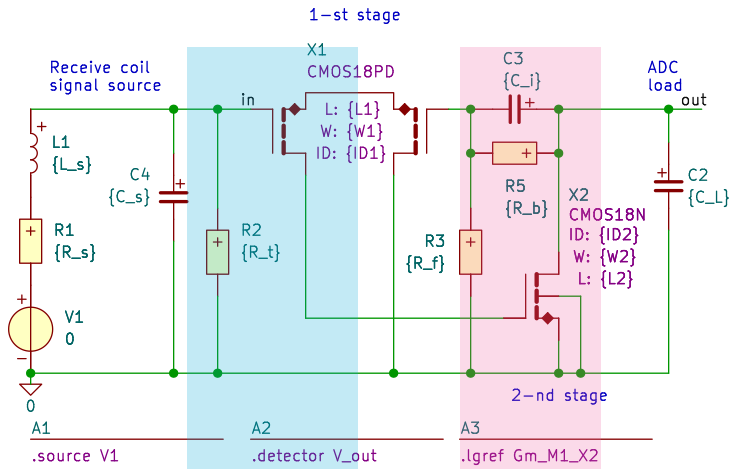
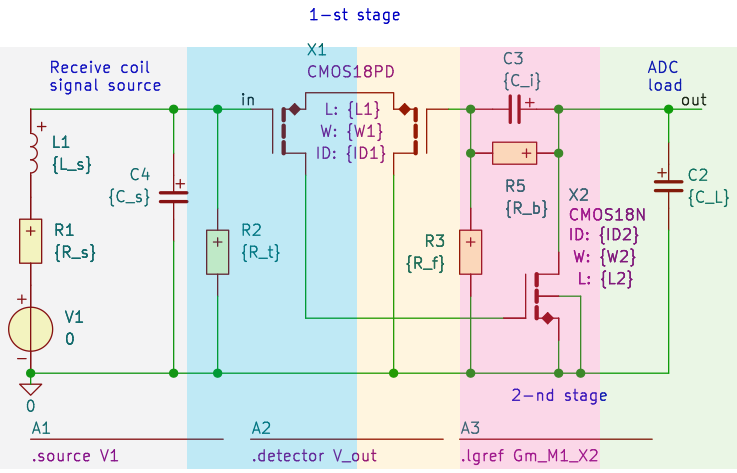
Enhance A1 Receive-Coil Amplifier review materials: - Add slide reference file for detailed circuit descriptions. - Update speaker notes for clarity and improved explanations. - Revise presentation files with better formatting and color coding for components. - Introduce new plots in Python scripts 

Changed region(s): [[0.8114, 0.0888, 1.0, 1.0], [0.4681, 0.0888, 0.6242, 1.0]]

diff --git a/SED_Exam_Review_Daniel_Tyukov/presentation/main.tex b/SED_Exam_Review_Daniel_Tyukov/presentation/main.tex
@@ -565,9 +565,11 @@
 
 \begin{frame}{Single stage: the circuit}
   \centering
-  \includegraphics[width=0.82\linewidth]{singleStageSimple_colored}\\[0.2em]
-  {\footnotesize\cbox{tudcyan}~single amplifier stage ($-g_m$)}\quad
-  \src{behavioural model: coil $\to$ termination $\to$ one CS controller $\to$ feedback $\to$ load}
+  \includegraphics[width=0.82\linewidth]{singleStageSimple_colored}\\[0.25em]
+  {\footnotesize
+   \cbox{tudcyan}~coil source \ \ \cbox{tudorange}~termination \ \
+   \cbox{tudgreen}~amplifier ($-g_m$) \ \ \cbox{tudyellow}~feedback \ \ \cbox{tudpink}~ADC load}\\[0.2em]
+  \src{behavioural model: one common-source controller, i.e. the single amplifier stage}
 \end{frame}
 
 \begin{frame}{Is a single stage enough?}
@@ -620,9 +622,10 @@
 
 \begin{frame}{Suggested topology}
   \centering
-  \includegraphics[width=0.74\linewidth]{dualstage_colored}\\[0.2em]
-  {\footnotesize\cbox{tudcyan}~1st stage: PMOS differential pair \quad
-   \cbox{tudpink}~2nd stage: NMOS common-source}\\[0.1em]
+  \includegraphics[width=0.62\linewidth]{dualstage_colored}\\[0.3em]
+  {\footnotesize
+   \cbox{tudgray}~coil \ \ \cbox{tudcyan}~1st stage: PMOS pair \ \
+   \cbox{tudyellow}~feedback \ \ \cbox{tudpink}~2nd stage: NMOS CS \ \ \cbox{tudgreen}~ADC load}\\[0.2em]
   \src{EKV schematic, \texttt{.source V1}, \texttt{.detector V\_out}, \texttt{.lgref Gm\_M1\_X2}}
 \end{frame}
 
@@ -671,22 +674,24 @@
 \end{frame}
 
 \begin{frame}{Dual-stage design parameters}
+  \centering
+  \includegraphics[width=0.8\linewidth]{dualStageSimple_colored}\\[0.2em]
+  {\footnotesize
+   \cbox{tudgray}~coil \ \ \cbox{tudcyan}~1st stage ($g_{m1},g_{o1}$) \ \
+   \cbox{tudpink}~2nd stage ($g_{m2}$) \ \ \cbox{tudyellow}~feedback ($R_f$) \ \
+   \cbox{tudgreen}~ADC load}\\[0.35em]
   \begin{columns}[T]
-    \begin{column}{0.52\textwidth}
-      \includegraphics[width=\linewidth]{dualStageSimple_colored}\\
-      \src{behavioural model: $g_{m1}$ (1st) and $g_{m2}$ (2nd) transconductors}
-      \[ L_{DC}=\frac{R_f g_{m1} g_{m2}(-R_s-R_t)}{R_sg_{o1}+R_tg_{o1}}
-         =-\frac{R_f g_{m1}g_{m2}}{g_{o1}} \]
-    \end{column}
-    \begin{column}{0.48\textwidth}
+    \begin{column}{0.5\textwidth}
       \footnotesize
-      \textbf{$g_{m1}$}, first-stage transconductance, set by the \emph{noise} budget.\\[3pt]
-      \textbf{$g_{m2}$}, second-stage transconductance, the extra \emph{loop-gain} factor.\\[3pt]
-      \textbf{$R_f$}, feedback resistor, set by the \emph{transfer}.\\[3pt]
-      \textbf{$g_{o1}$}, first-stage output conductance (its output resistance).
-      \begin{resultbox}
-        \footnotesize $|L_{DC}|\approx\SI{45}{dB}$, enough for accuracy.
-      \end{resultbox}
+      \textbf{$g_{m1}$} first-stage transconductance, set by the \emph{noise} budget.\\[2pt]
+      \textbf{$g_{m2}$} second-stage transconductance, the extra \emph{loop-gain} factor.\\[2pt]
+      \textbf{$R_f$} feedback resistor, set by the \emph{transfer}.\\[2pt]
+      \textbf{$g_{o1}$} first-stage output conductance (its output resistance).
+    \end{column}
+    \begin{column}{0.5\textwidth}
+      \resizebox{\linewidth}{!}{$\displaystyle L_{DC}=\frac{R_f g_{m1} g_{m2}(-R_s-R_t)}{R_sg_{o1}+R_tg_{o1}}=-\frac{R_f g_{m1}g_{m2}}{g_{o1}}$}
+      \vskip0.4em
+      \begin{resultbox}$|L_{DC}|\approx\SI{45}{dB}$, enough for accuracy.\end{resultbox}
     \end{column}
   \end{columns}
 \end{frame}

diff --git a/SED_Exam_Review_Daniel_Tyukov/data/slicap/colorize_schematic.py b/SED_Exam_Review_Daniel_Tyukov/data/slicap/colorize_schematic.py
@@ -19,15 +19,21 @@ JOBS = {
   "feedbackConceptNoisyNullorN18.png": ("circuit_model_colored.png", 52, [
       (0.00,0.165, CY), (0.165,0.30, OR), (0.30,0.515, GR),
       (0.515,0.685, YE), (0.685,0.815, PK), (0.815,1.00, GY)]),
-  # dual-stage EKV: colour ONLY the two stages (like Group 2's topology slide)
+  # dual-stage EKV: all five blocks; the two stages (cyan/pink) kept prominent, the rest light.
+  # per-zone alpha as optional 4th element.
   "dualStageEKV.png": ("dualstage_colored.png", 60, [
-      (0.255,0.485, CY), (0.625,0.815, PK)]),
-  # single-stage behavioural: highlight the one amplifier stage
-  "singleStageSimple.png": ("singleStageSimple_colored.png", 55, [
-      (0.40,0.60, CY)]),
-  # dual-stage behavioural: highlight the two gm stages
+      (0.00,0.255, GY, 30), (0.255,0.485, CY, 64), (0.485,0.625, YE, 36),
+      (0.625,0.815, PK, 64), (0.815,1.00, GR, 36)]),
+  # single-stage behavioural: colour every block (matches the slide-10 roadmap scheme,
+  # and the speaker note that walks coil -> termination -> amplifier -> feedback -> load)
+  "singleStageSimple.png": ("singleStageSimple_colored.png", 48, [
+      (0.00,0.255, CY), (0.255,0.385, OR), (0.385,0.605, GR),
+      (0.605,0.795, YE), (0.795,1.00, PK)]),
+  # dual-stage behavioural: all five blocks (note: feedback sits AFTER the 2nd stage here).
+  # stages (cyan/pink) bold; coil/feedback/load light.
   "dualStageSimple.png": ("dualStageSimple_colored.png", 55, [
-      (0.335,0.545, CY), (0.545,0.745, PK)]),
+      (0.00,0.28, GY, 30), (0.28,0.55, CY, 60), (0.55,0.715, PK, 60),
+      (0.715,0.845, YE, 38), (0.845,1.00, GR, 36)]),
 }
 
 def on_white(img):
@@ -49,8 +55,10 @@ for src, (dst, A, zones) in JOBS.items():
     overlay = Image.new("RGBA", (w, h), (0, 0, 0, 0))
     d = ImageDraw.Draw(overlay)
     y0, y1 = int(h*0.10), int(h*0.99)
-    for x0f, x1f, col in zones:
-        d.rectangle([int(w*x0f), y0, int(w*x1f), y1], fill=col + (A,))
+    for z in zones:
+        x0f, x1f, col = z[0], z[1], z[2]
+        a = z[3] if len(z) > 3 else A
+        d.rectangle([int(w*x0f), y0, int(w*x1f), y1], fill=col + (a,))
     out = Image.alpha_composite(im, overlay).convert("RGB")
     out.save(os.path.join(SCH, dst))
     print("wrote", dst, out.size)

diff --git a/SED_Exam_Review_Daniel_Tyukov/data/slicap/gen_plots.py b/SED_Exam_Review_Daniel_Tyukov/data/slicap/gen_plots.py
@@ -216,6 +216,26 @@ try:
 except Exception:
     traceback.print_exc()
 
+# ===== 4c. R_phz sweep: how the phantom zero tunes the HF peak (SLiCAP) =====
+try:
+    f = np.logspace(5, 8.7, 1300)               # 0.1 .. 500 MHz, where the peak lives
+    db_u, _ = mag_db(curves["gain"], f)         # uncompensated
+    fig, ax = plt.subplots(figsize=FIG)
+    ax.semilogx(f, db_u, color=GREY, lw=2.0, ls=":", label="no $R_{phz}$ (Q$\\approx$5.4)")
+    for rphz, col, lab in [(120, ORANGE, "0.12k (under)"),
+                           (420, BLUE,   "0.42k (MFM)"),
+                           (1800, GREEN, "1.8k (over)")]:
+        circ.defPar("R_phz", float(rphz))
+        rr = sl.doLaplace(circ, transfer="gain", lgref="Gm_M1_X2", pardefs="circuit", numeric=True)
+        db, _ = mag_db(str(rr.laplace), f)
+        ax.semilogx(f, db, color=col, lw=2.6, label=f"$R_{{phz}}=${lab}$\\Omega$")
+    ax.set_xlabel("frequency [Hz]"); ax.set_ylabel("magnitude [dB]")
+    ax.set_title("Effect of $R_{phz}$ on the HF peak")
+    ax.legend(loc="lower left", fontsize=10.5)
+    save(fig, "compensation_sweep.png")
+except Exception:
+    traceback.print_exc()
+
 # ===== 5. SLiCAP: pick-up coil damping (actual RLC circuit, R_t swept) =====
 try:
     Rt_crit = 79971.89

diff --git a/SED_Exam_Review_Daniel_Tyukov/notes/slide_reference.md b/SED_Exam_Review_Daniel_Tyukov/notes/slide_reference.md
@@ -1,0 +1,202 @@
+# Slide reference: A1 Receive-Coil Amplifier deck
+**Daniel Tyukov (5714699) · 46 slides · footer page number = slide number**
+
+This file describes the slides, focused on the circuits shown. If you name a slide by number or
+title, this tells me exactly which circuit it is, every part in it, and how it looks on the slide.
+Component values come from `../data/source/csv/dualStage.csv` via `gen_values.py`; netlists are in
+`../data/source/cir/`.
+
+Shared design values used across the circuits:
+
+| Symbol | Value | Symbol | Value |
+|---|---|---|---|
+| L_s (coil inductance) | 120 mH | C_i (integrator cap) | 4.96 nF |
+| R_s (coil resistance) | 875 Ω | R_b (bypass) | 53.5 kΩ |
+| C_s (coil parasitic) | 9.382 pF | R_f (feedback) | 3.24 kΩ |
+| R_t (termination) | 79.97 kΩ | R_phz (phantom zero) | ≈ 0.42 kΩ |
+| C_L (ADC load) | 10 pF | DIN_A | weighting function E-source |
+
+Transistors: **X1 = CMOS18PD (PMOS, 1st stage)** W = 19.1 µm, L = 0.72 µm, I_D = 8.07 µA ·
+**X2 = CMOS18N (NMOS, 2nd stage)** W = 10 µm, L = 0.18 µm, I_D = 16.5 µA.
+Behavioural transconductors: **g_m1 ≈ 73 µS** (1st stage, set by noise), **g_m2** (2nd stage, loop-gain),
+**g_o1** (1st-stage output conductance, drawn as R = 1/g_o1).
+
+---
+
+## Quick slide index (number → title → what's on it)
+
+| # | Title | Main visual |
+|---|---|---|
+| 1 | A1 Receive-Coil Amplifier (title) | title page |
+| 2 | Outline | 8-part list |
+| 3 | *Part 1: Specification & design environment* | divider |
+| 4 | The hearing loop and where A1 lives | application photo/diagram |
+| 5 | A1 in the signal chain | system block diagram |
+| 6 | Input of A1: the pick-up coil | text + dΦ/dt |
+| 7 | Output of A1: source-select switch + ADC | text |
+| 8 | How should A1 work? | H(s) integrator |
+| 9 | Specification & budget | spec table |
+| 10 | **Circuit model: the complete picture** | **full SLiCAP concept circuit, 6 colour zones** |
+| 11 | Representation 1: the pick-up coil | **coil mini-circuit** + datasheet table |
+| 12 | Representation 2: the termination resistor | **R_t mini-circuit** + damping plot |
+| 13 | Representation 3: the ideal amplifier (nullor) | **nullor symbol** + gain derivation |
+| 14 | Representation 4: the output (ADC load) | **C_L mini-circuit** + ADC block |
+| 15 | Representation 5: the noise sources | noise-spectrum plot |
+| 16 | **Noise budgeting** | **same concept circuit, R_s/R_t/R_f circled red** |
+| 17 | Noise is judged by ear: DIN-A weighting | DIN-A curve |
+| 18 | *Part 2: Transfer function & feedback configuration* | divider |
+| 19 | First generate the options, then choose | V-V vs I-V text |
+| 20 | Why feedback? The asymptotic-gain model | **feedback block diagram** + formula |
+| 21 | Sizing the feedback network | R_f / C_i / R_b values |
+| 22 | *Part 3: First stage: noise design* | divider |
+| 23 | The first stage sets the input-referred noise | **noisy-nullor SLiCAP schematic** |
+| 24 | The knobs: gm, c_iss, inversion | 4kTγ/gm text |
+| 25 | Which stage? CS vs CG vs CD | comparison table |
+| 26 | From budget to device parameters | procedure + W/L/I_D |
+| 27 | *Part 4: Single stage & loop-gain check* | divider |
+| 28 | **Single stage: the circuit** | **behavioural single-stage SLiCAP circuit, 5 colour zones** |
+| 29 | Is a single stage enough? | loop-gain plot + verdict |
+| 30 | *Part 5: Dual stage (PMOS pair + NMOS CS)* | divider |
+| 31 | Why a dual stage? | text |
+| 32 | **Suggested topology** | **EKV dual-stage SLiCAP circuit, 5 zones (stages bold)** |
+| 33 | First stage: differential pair vs single CS | comparison table |
+| 34 | Second stage: NMOS common-source | W/L/I_D |
+| 35 | **Dual-stage design parameters** | **behavioural dual-stage SLiCAP circuit + L_DC** |
+| 36 | Asymptotic-gain model: every curve explained | 5-curve Bode plot |
+| 37 | *Part 6: EKV model & pole-zero analysis* | divider |
+| 38 | **EKV small-signal model** | **EKV dual-stage SLiCAP circuit (plain)** |
+| 39 | Pole-zero analysis | PZ map + pole/zero table |
+| 40 | *Part 7: Frequency compensation (MFM)* | divider |
+| 41 | Target: maximally-flat magnitude (MFM) | Q = 1/√2 text |
+| 42 | The phantom-zero method | **R_phz insertion circuit** |
+| 43 | Compensation result | before/after plot + table |
+| 44 | *Part 8: Conclusions* | divider |
+| 45 | Conclusions | summary |
+| 46 | Thank you | closing |
+
+Slides in **bold** show a circuit, detailed below.
+
+---
+
+## Circuit details
+
+### Slide 10: "Circuit model: the complete picture"
+Figure: `assets/schematics/circuit_model_colored.png` (netlist `feedbackConceptNoisyNullorN18.cir`).
+The full conceptual model, left to right, with the colour band of each block. The amplifier is an
+ideal **noisy nullor**, not yet a transistor.
+
+| Block (colour) | Part | Value | Nodes | Role |
+|---|---|---|---|---|
+| coil source (**cyan**) | V1 | 0 (AC source) | 2→0 | the coil EMF, the signal source |
+| | L1 | L_s = 120 mH | 4→1 | coil inductance |
+| | R1 | R_s = 875 Ω | 1→2 | coil series resistance |
+| | C1 | C_s = 9.382 pF | 4→0 | coil parasitic capacitance |
+| termination (**orange**) | R2 | R_t = 79.97 kΩ | 4→0 | damps the L_s–C_s resonance |
+| amplifier (**green**) | X1 | MN18_noisyNullor | out,0,4,3 | ideal nullor + the input device's noise (v_n, i_n) |
+| feedback (**yellow**) | C3 | C_i = 4.96 nF | out→3 | integrator capacitor |
+| | R3 | R_f = 3.24 kΩ | 3→0 | feedback resistor (sets the transfer) |
+| | R4 | R_b = 53.5 kΩ | out→3 | bypass, sets the 600 Hz low corner + DC path |
+| ADC load (**pink**) | C2 | C_L = 10 pF | out→0 | ADC input capacitance |
+| noise weighting (**grey**) | E2 | DIN_A | noise,0 ← out,0 | applies the DIN-A weighting to the output noise |
+
+Directives: `.source V1`, `.detector V_out`, `.lib SLiCAP_C18.lib`, `.param IG=0`. The input node
+is `4` (where the coil, C_s and R_t meet); the output node is `out`.
+
+### Slide 16: "Noise budgeting"
+Figure: `assets/schematics/circuit_model_noise.png`. **Exactly the slide-10 circuit**, but the three
+budgeted noise resistors are **circled in red**: R1 (R_s, source), R2 (R_t, termination), R3 (R_f,
+feedback). Together they take B_n1 = 0.4 of the noise budget; the rest goes to the input transistor.
+
+### Slide 23: "The first stage sets the input-referred noise"
+Figure: `assets/schematics/noisyNullorN.png` (the `noisyNullorN` subcircuit). This is the **inside of
+the amplifier block** (X1 above): an ideal nullor (nullator input, norator output) with the input
+MOS device's noise added as a series gate-referred voltage-noise source and a parallel current-noise
+source. It is what "noisy nullor" means.
+
+### Slide 28: "Single stage: the circuit"
+Figure: `assets/schematics/singleStageSimple_colored.png` (netlist `singleStageSimple.cir`).
+Behavioural model with **one** transconductor; coloured by block (coil cyan, termination orange, amplifier **green**, feedback yellow, load pink), matching the slide-10 roadmap.
+
+| Block | Part | Value | Nodes | Role |
+|---|---|---|---|---|
+| coil source | V1 | AC source | 4→0 | coil EMF |
+| | L1 | L_s = 120 mH | 2→3 | coil inductance |
+| | R1 | R_s = 875 Ω | 3→4 | coil resistance |
+| | C4 | C_s = 9.382 pF | 2→0 | coil parasitic |
+| termination | R2 | R_t = 79.97 kΩ | 2→0 | resonance damping |
+| amplifier (**green**) | G1 | −g_m (VCCS) | out→0, sense 2→1 | the single CS transconductor |
+| | C1 | c_iss | 2→1 | input capacitance of the stage |
+| feedback | C3 | C_i = 4.96 nF | out→1 | integrator capacitor |
+| | R3 | R_f = 3.24 kΩ | 1→0 | feedback resistor |
+| | R4 | R_b = 53.5 kΩ | out→1 | bypass |
+| load | C2 | C_L = 10 pF | out→0 | ADC load |
+
+Directives: `.source V1`, `.detector V_out`, `.lgref G1` (loop-gain reference is the transconductor).
+Point of the slide: this is the simplest realisation; its loop gain falls below 0 dB (slide 29), so it
+fails on accuracy.
+
+### Slide 32: "Suggested topology"
+Figure: `assets/schematics/dualstage_colored.png` (netlist `dualStageEKV.cir`). The **EKV
+transistor** dual stage, coloured by block: coil (grey), **1st stage cyan**, feedback (yellow),
+**2nd stage pink**, load (green). The two stages are the bold colours; coil/feedback/load sit lighter.
+
+| Block | Part | Value | Nodes (D,G,S,B) | Role |
+|---|---|---|---|---|
+| coil source | V1 / L1 / R1 / C4 | as above | in-side | coil EMF + L_s + R_s + C_s |
+| termination | R2 | R_t = 79.97 kΩ | in→0 | resonance damping |
+| 1st stage (**cyan**) | X1 | CMOS18PD (PMOS) | 3,0,in,4 | input pair: W=19.1 µm, L=0.72 µm, I_D=8.07 µA |
+| feedback | C3 / R3 / R5 | C_i / R_f / R_b | around node 4 | integrator + feedback + bypass |
+| 2nd stage (**pink**) | X2 | CMOS18N (NMOS) | out,3,0,0 | CS output: W=10 µm, L=0.18 µm, I_D=16.5 µA |
+| load | C2 | C_L = 10 pF | out→0 | ADC load |
+
+Nodes: `in` = amplifier input (coil side), `3` = inter-stage node (X1 drain → X2 gate), `4` =
+feedback summing node, `out` = output. Directives: `.source V1`, `.detector V_out`,
+`.lgref Gm_M1_X2` (loop-gain reference is the X2 transconductance).
+
+### Slide 35: "Dual-stage design parameters"
+Figure: `assets/schematics/dualStageSimple_colored.png` (netlist `dualStageSimple.cir`). The
+**behavioural** dual stage (transconductors, not transistors); **1st stage cyan, 2nd stage pink**.
+This is where the four design knobs live.
+
+| Block | Part | Value | Nodes | Role |
+|---|---|---|---|---|
+| coil source | V1 / L1 / R1 / C4 | as above | in-side | coil EMF + L_s + R_s + C_s |
+| termination | R2 | R_t = 79.97 kΩ | in→0 | resonance damping |
+| 1st stage (**cyan**) | G1 | g_m1 ≈ 73 µS (VCCS) | int→0, sense in→fb | first-stage transconductance (noise) |
+| | C1 | c_iss | in→fb | first-stage input cap |
+| | R5 | 1/g_o1 | int→0 | first-stage output resistance |
+| 2nd stage (**pink**) | G2 | g_m2 (VCCS) | out→0, sense int→0 | second-stage transconductance (loop gain) |
+| | C5 | c_iss2 | int→0 | second-stage input cap |
+| feedback | C3 / R3 / R4 | C_i / R_f / R_b | around node fb | integrator + feedback + bypass |
+| load | C2 | C_L = 10 pF | out→0 | ADC load |
+
+Nodes: `in` = input, `fb` = feedback summing node, `int` = inter-stage node, `out` = output.
+The four parameters on the slide: **g_m1** (noise budget), **g_m2** (extra loop-gain factor),
+**R_f** (transfer), **g_o1** (first-stage output conductance). They give |L_DC| ≈ 45 dB, where
+
+  L_DC = −R_f · g_m1 · g_m2 / g_o1.
+
+### Slide 38: "EKV small-signal model"
+Figure: `assets/schematics/dualStageEKV.png`. The **same circuit as slide 32** (netlist
+`dualStageEKV.cir`) but **plain (no colour zones)**, presented as the realistic transistor-level model
+with all parasitic capacitances. This is the circuit the pole-zero analysis (slide 39) runs on.
+
+### Slide 42: "The phantom-zero method"
+Conceptual circuitikz drawing based on `dualStageEKVcompensated.cir`. It adds **R4 = R_phz ≈ 0.42 kΩ**
+in series between the 2nd-stage output node (`5`) and the load node (`out`). The load C2 (C_L) sits at
+`out`; the feedback (C3 = C_i, R5 = R_b) is tapped at node `5`, i.e. **before** R_phz. Because the
+feedback is taken before R_phz, the resistor adds a zero to the **loop gain** without putting a real
+pole in the signal path. The zero is at z = −1/(R_phz·C_L).
+
+---
+
+## Mini / conceptual circuits (not full SLiCAP schematics)
+
+- **Slide 11** coil mini (circuitikz): v_emf source, L_s, R_s in series, C_s and R_t to ground. The
+  coil-source block on its own.
+- **Slide 12** termination mini (circuitikz): just R_t from the input node to ground, beside the
+  damping plot (undamped / light / critical).
+- **Slide 13** nullor symbol (tikz): a triangle marked ∞ with + and − inputs, the ideal amplifier.
+- **Slide 14** output (tikz): the A2→ADC block (Z_in = ∞, C = 10 pF) and a C_L-to-ground mini-circuit.
+- **Slide 20** feedback block diagram (tikz): Σ → nullor → V_o with the Z1,Z2 feedback network, for
+  the asymptotic-gain model A_f = A_∞·L/(1−L) + 1/(1−L).

diff --git a/SED_Exam_Review_Daniel_Tyukov/notes/speaker_notes.md b/SED_Exam_Review_Daniel_Tyukov/notes/speaker_notes.md
@@ -167,11 +167,18 @@ termination, a single common-source controller, the feedback network, and the lo
 simplest thing that could work, so I test it.
 
 ### 29 · Is a single stage enough?
-A single common-source has only three usable terminals, so I'd use a differential pair, which
-costs about four times the current and area. The current drive and the voltage headroom are both
-fine. But the loop gain stays below one across the band, as the plot shows, and if the loop gain
-is below one the feedback can't enforce the transfer, so the accuracy is poor. So one stage fails,
-and I move to a dual stage.
+The plot is the asymptotic-gain model for the single stage, so let me read the five curves. The
+red curve is the asymptotic gain, the ideal target the feedback should deliver. The black curve
+is the loop gain, and that is the problem here: it stays below 0 dB, magnitude one, across the
+whole band. The magenta curve is the servo function, and because the loop gain never reaches 0 dB
+the servo can't reach one, so the blue closed-loop gain is not locked onto the red asymptotic
+target. The green curve is the direct feed-through, which is negligible.
+
+Now the checks. A single common-source has only three usable terminals, so I'd use a differential
+pair, about four times the current and area. The current drive into the load is fine, and the
+voltage headroom on 0.9 volt is fine. But with the loop gain below one, the feedback can't enforce
+the transfer, so the accuracy is poor. So one stage fails the accuracy test, and I move to a dual
+stage.
 
 ### 30 · Part 5 (divider)
 So, the dual stage.
@@ -183,10 +190,11 @@ the job, a low-noise PMOS differential pair first, then a high-loop-gain NMOS co
 stage couldn't give both; two stages can.
 
 ### 32 · Suggested topology
-Here's the suggested topology. The first stage, in blue, is the PMOS differential pair. The
-second stage, in pink, is the NMOS common-source. The coil, feedback and load are around them,
-and at the bottom you can see the SLiCAP directives, the source, the detector and the loop-gain
-reference.
+Here's the suggested topology, coloured by block. On the left, in grey, the coil source. Then in
+cyan the first stage, the PMOS differential pair. In yellow the feedback network. In pink the
+second stage, the NMOS common-source. And in green the ADC load. The two stages are the point, so
+they're the bold colours, coil, feedback and load sit lighter around them. At the bottom are the
+SLiCAP directives: the source, the detector, and the loop-gain reference.
 
 ### 33 · First stage: differential pair vs single CS
 Why the differential pair for stage one? It has lower noise, high common-mode rejection, and it

diff --git a/SED_Exam_Review_Daniel_Tyukov/README.md b/SED_Exam_Review_Daniel_Tyukov/README.md
@@ -31,7 +31,8 @@ SED_Exam_Review_Daniel_Tyukov/
 │  └─ SOURCES.md                # provenance: which SLiCAP routine made each figure
 ├─ notes/
 │  ├─ theory_notes.md           # formulas, derivations, what the review wants
-│  └─ speaker_notes.md          # first-person notes to read from (one per slide)
+│  ├─ speaker_notes.md          # first-person notes to read from (one per slide)
+│  └─ slide_reference.md        # per-slide circuit reference (every part of each SLiCAP schematic)
 └─ course_pdfs_md/
    └─ course_pdfs_index.md      # which course PDF/page holds which figure
 ```
@@ -60,7 +61,8 @@ Team-12 model).
 
 When the slides change, the related `.md` files are updated alongside them:
 `notes/speaker_notes.md` (one note per slide, must match slide order/count),
-`notes/theory_notes.md` (numbers must match the regenerated data), and this README.
+`notes/theory_notes.md` (numbers must match the regenerated data),
+`notes/slide_reference.md` (per-slide circuit parts, must match the schematics), and this README.
 Both `main.pdf` and `SED_Review_A1_Daniel_Tyukov.pdf` are rebuilt together.
 
 ## Deck outline (8 parts, 46 slides)